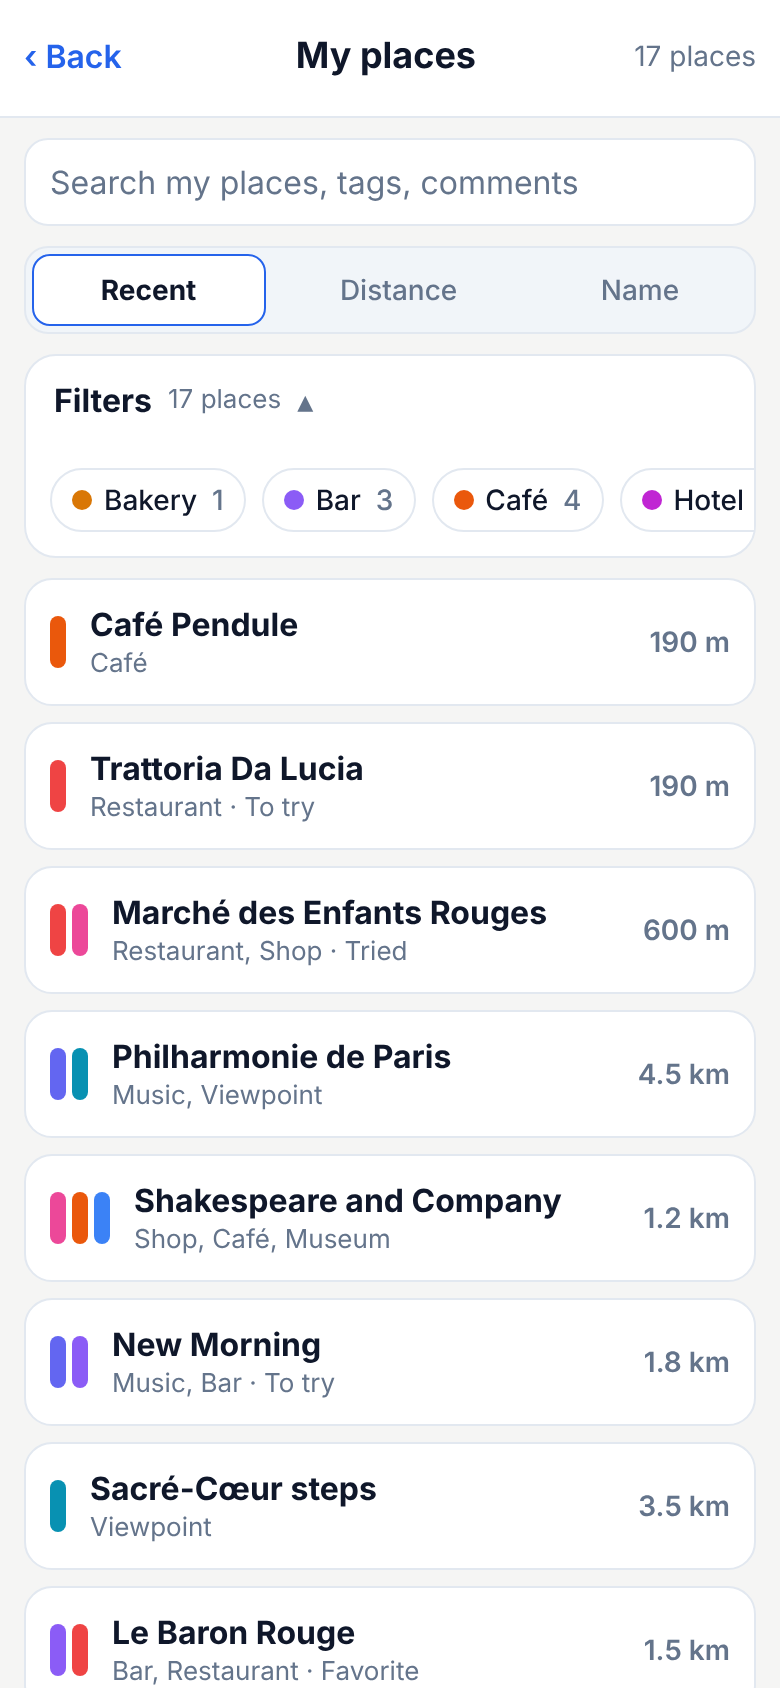
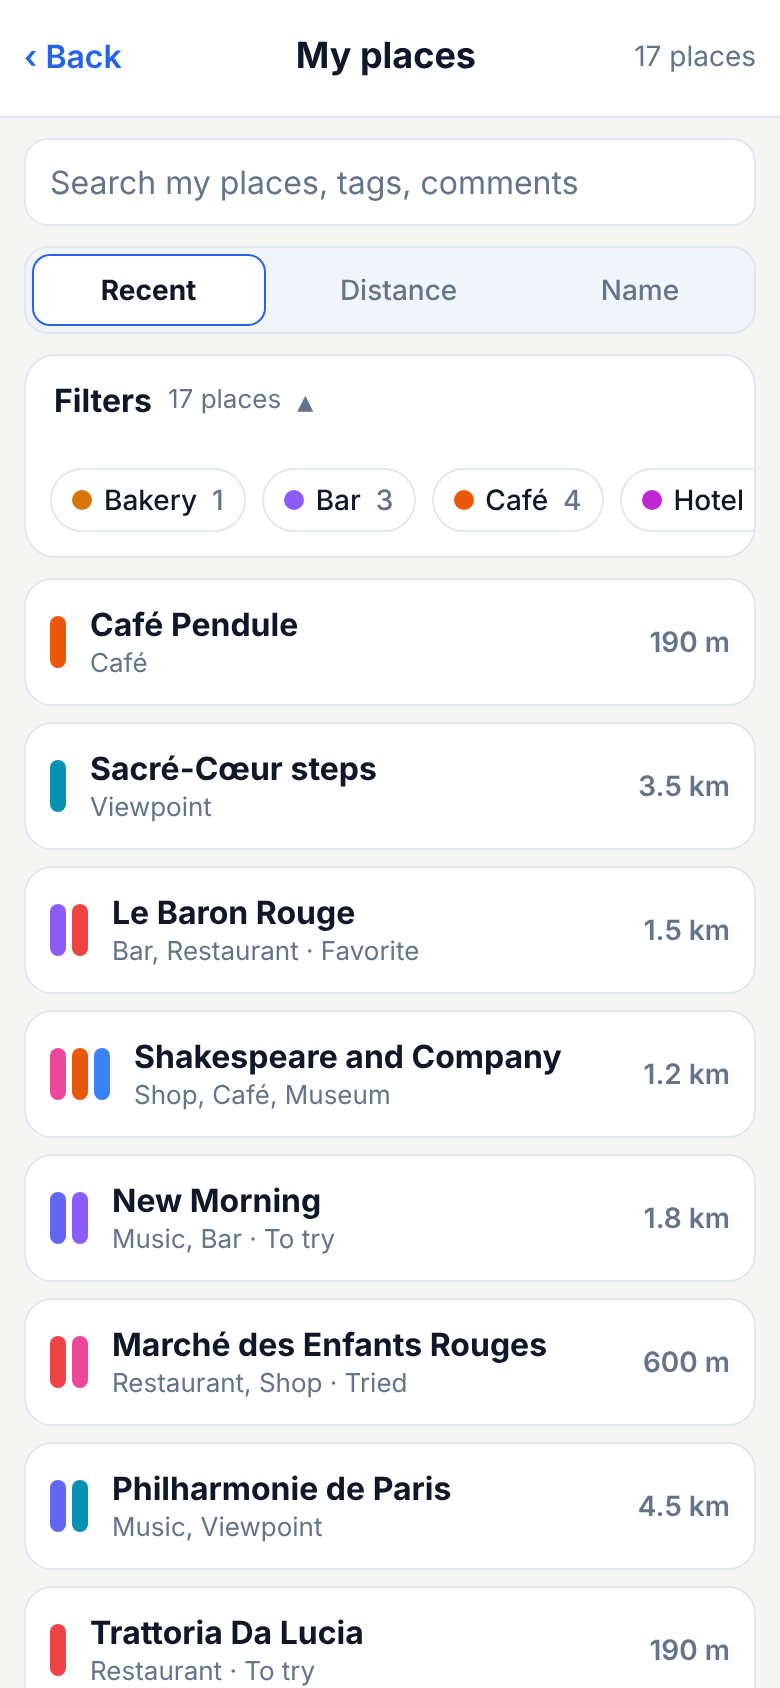
mobile: follow packages/data's move to Yjs; no OSM fixtures in production
- Drop @automerge/automerge and the Metro base64 redirect; add yjs (lib0 comes
  with it), resolved from the app for Metro, TypeScript and Vitest.
- Metro replaces src/osm/fixtures.ts by an empty module unless
  EXPO_PUBLIC_OSM_FIXTURES=1, so the fixture JSON stays out of production.
- Web bundle: 3.3 MB (was 8 MB). Screenshots regenerated.

diff --git a/apps/mobile/metro.config.js b/apps/mobile/metro.config.js
@@ -2,9 +2,8 @@
 //
 // The app consumes the workspace packages (@triangulair/data, @triangulair/osm)
 // straight from their TypeScript sources in ../../packages. Each package keeps
-// its own lockfile, so their runtime dependencies (@automerge/automerge,
-// opening_hours) are also dependencies of this app and are resolved from
-// apps/mobile/node_modules, even when a package has no node_modules of its own.
+// its own lockfile, so their runtime dependencies (yjs, opening_hours) are also
+// dependencies of this app and are resolved from apps/mobile/node_modules, even when a package has no node_modules of its own.
 const path = require('path');
 const { getDefaultConfig } = require('expo/metro-config');
 
@@ -28,14 +27,14 @@ config.resolver.sourceExts = [...new Set([...config.resolver.sourceExts, 'json']
 
 const defaultResolve = config.resolver.resolveRequest;
 config.resolver.resolveRequest = (context, moduleName, platform) => {
-  // Automerge on web: the "browser" entry imports a .wasm file, which Metro
-  // cannot bundle. The base64 build inlines the WebAssembly module instead.
-  // (Temporary: packages/data is moving from Automerge to Yjs.)
-  if (platform === 'web' && moduleName === '@automerge/automerge') {
-    return {
-      type: 'sourceFile',
-      filePath: path.join(appRoot, 'node_modules/@automerge/automerge/dist/cjs/fullfat_base64.cjs'),
-    };
+  // The OSM fixtures (test data of packages/osm) are only bundled in fixture
+  // mode (EXPO_PUBLIC_OSM_FIXTURES=1); otherwise src/osm/fixtures.ts is empty.
+  if (
+    process.env.EXPO_PUBLIC_OSM_FIXTURES !== '1' &&
+    moduleName === './fixtures' &&
+    context.originModulePath === path.join(appRoot, 'src/osm/client.ts')
+  ) {
+    return { type: 'empty' };
   }
   // sql.js (web database) has Node-only branches that are never taken in a browser.
   if (platform === 'web' && (moduleName === 'node:fs' || moduleName === 'node:crypto')) {

diff --git a/apps/mobile/src/data/openStore.native.ts b/apps/mobile/src/data/openStore.native.ts
@@ -2,8 +2,7 @@
  * Native: expo-sqlite (synchronous JSI API) through the data package's
  * driver. R*Tree needs the expo-sqlite config plugin flag (app.json).
  *
- * Not run yet: the data package's Automerge (WebAssembly) does not run on
- * Hermes; packages/data is moving to Yjs, which removes that blocker.
+ * Not run yet on a device (needs a development build).
  */
 import { openDatabaseSync } from 'expo-sqlite';
 import { DataStore } from '@triangulair/data';

diff --git a/apps/mobile/src/osm/client.ts b/apps/mobile/src/osm/client.ts
@@ -12,6 +12,7 @@ let client: OsmClient | null = null;
 
 export function osmClient(): OsmClient {
   if (client) return client;
+  // Outside fixture mode Metro replaces ./fixtures by an empty module (metro.config.js).
   const fetchImpl = OSM_FIXTURES
     ? createFixtureFetch((require('./fixtures') as typeof import('./fixtures')).loadFixtures())
     : undefined;

diff --git a/apps/mobile/src/data/identity.ts b/apps/mobile/src/data/identity.ts
@@ -1,7 +1,7 @@
 /**
  * Device identity used by the data store until identity creation exists
  * (first-launch flow, T-0xx): a fixed local owner id and a per-device
- * Automerge actor kept in the device settings.
+ * document actor kept in the device settings.
  */
 import { getSetting, setSetting } from './deviceSettings';
 

diff --git a/apps/mobile/src/data/deviceSettings.ts b/apps/mobile/src/data/deviceSettings.ts
@@ -1,5 +1,5 @@
 /**
- * Small per-device values (Automerge actor, demo seed flag). Web:
+ * Small per-device values (document actor, demo seed flag). Web:
  * localStorage, guarded (it can throw or be empty). Native: expo-sqlite's
  * synchronous key-value store (see deviceSettings.native.ts).
  */

diff --git a/apps/mobile/README.md b/apps/mobile/README.md
@@ -40,9 +40,9 @@ build step and no change to the root `package.json`:
 
 - `metro.config.js` watches `packages/data` and `packages/osm`, maps their names to their folders
   (`extraNodeModules`, package `exports` honored) and resolves their runtime dependencies
-  (`@automerge/automerge`, `opening_hours`) from this app's `node_modules`. On web it redirects
-  Automerge to its base64 build (the default browser entry imports a `.wasm` file Metro cannot
-  bundle; temporary until packages/data moves to Yjs) and empties sql.js's Node-only imports.
+  (`yjs` and its `lib0`, `opening_hours`) from this app's `node_modules`. On web it empties
+  sql.js's Node-only imports. Outside fixture mode it replaces `src/osm/fixtures.ts` by an empty
+  module, so the OSM fixture JSON never reaches a production bundle.
 - `tsconfig.json` maps the package names to their sources (`paths`) and allows `.ts` import
   extensions; `vitest.config.mts` has the same aliases.
 
@@ -75,8 +75,8 @@ Before the first EAS build, run `eas init` to link a project (it adds `extra.eas
 
 - **Native**: `expo-sqlite` through the package's `ExpoSqliteDriver` (`src/data/openStore.native.ts`).
   `app.json` enables R*Tree (`customBuildFlags: -DSQLITE_ENABLE_RTREE=1`, needs a native rebuild).
-  Type-checked, not run yet: the package's Automerge (WebAssembly) does not run on Hermes; the move
-  to Yjs removes that blocker.
+  Type-checked, not run on a device yet (the document is Yjs, pure JavaScript, so Hermes is no
+  longer a blocker).
 - **Web**: sql.js (SQLite in WebAssembly, inline build) behind `SqlJsDriver` (`src/data/sqljsDriver.ts`),
   the database file saved to IndexedDB after each write (debounced, and on page hide). When
   IndexedDB is unavailable the data stays in memory and the map says so. sql.js has no R*Tree/FTS5:
@@ -84,7 +84,7 @@ Before the first EAS build, run `eas init` to link a project (it adds `extra.eas
 - **Demo data**: on first launch the 15 sample places in Paris are seeded as tags, my saves (status,
   price, comments), a friend's saves ("Léa") and illustrative OSM info (opening hours, terrace,
   happy hours) so the filters have data (`src/data/demo.ts`).
-- Owner id is a placeholder (`local-me`) until identity creation exists; the Automerge actor is a
+- Owner id is a placeholder (`local-me`) until identity creation exists; the document actor is a
   per-device random id kept in localStorage / expo-sqlite's kv-store.
 
 ### OSM services, offline and fixture mode
